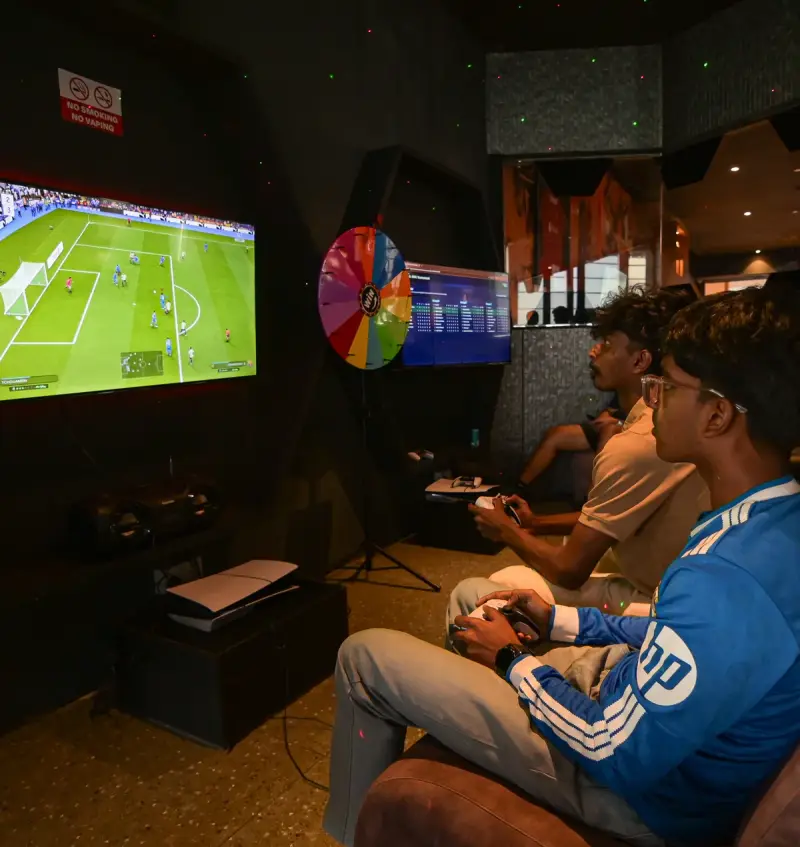
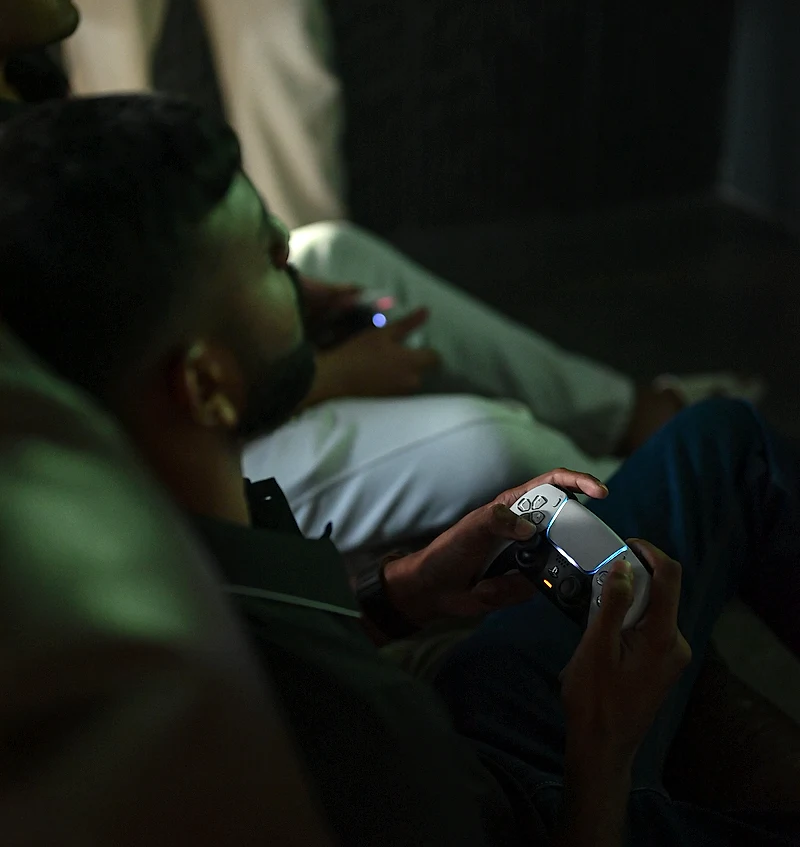
Swap Division 0 photo and Moment strip frame (#2)
* Refresh site photos, labels and champion data

Swap photos across Who We Are, Events, Community, Collaborate, Contact
menu and hero, and the home Moment strip (new dusk action shot). Use
Drive originals where available. Remove the hero "Scroll" label, change
"Champions" to "Champion", set SZN 6 champion to Ramadan FC and fix
"Pantera" to "Panthera".

* Remove Hype cans photo from the gallery reel

Drop the frame from the opening reel and update the reel length test
from 10 to 9.

* Swap Division 0 photo and Moment strip frame

Division 0 now uses DSC_6078, brightened and sharpened, saved at higher
quality. The Moment strip frame is DSC_0546, cropped to drop the logos.

* Use gallery photo for Moment strip frame

DSC_0546 already shows on the 4 x 4 Series row, so the strip repeated it.

---------

diff --git a/lib/home-photos.ts b/lib/home-photos.ts
@@ -12,12 +12,12 @@ export const marqueePhotos: HomePhoto[] = [
     "alt": "The SZN 6 champions lift their trophies under the tent after the final"
   },
   {
-    "id": "DSC_8533",
+    "id": "gallery-p06",
     "src": "/home/moment-strike.webp",
-    "sourceUrl": "https://drive.google.com/file/d/1ra_xs5JnizPY8x1Plu639R2SkszhGQ_O/view",
+    "sourceUrl": "public/gallery/p06.webp",
     "w": 1600,
     "h": 1066,
-    "alt": "A player winds up a strike in the evening sun at 4 x 4 Series SZN 6"
+    "alt": "A striker in a number 30 shirt lines up the ball as defenders close in at 4 x 4 Series"
   },
   {
     "id": "DSC_9019",
@@ -105,11 +105,11 @@ export const competitionPhotos = {
     "alt": "Players in green bibs and blue shirts contest the ball near goal at 4 x 4 Series SZN 3"
   },
   "Division 0": {
-    "id": "DSC_6031",
+    "id": "DSC_6078",
     "src": "/pages/competition-division-0.webp",
-    "sourceUrl": "C:/Users/anuda/Desktop/Photos/DSC_6031.jpg",
+    "sourceUrl": "C:/Users/anuda/Desktop/Photos/DSC_6078.jpg",
     "w": 1600,
     "h": 1200,
-    "alt": "Two players with controllers face a football video game screen at Division 0"
+    "alt": "A player grips a glowing controller in the dark at Division 0"
   }
 };
